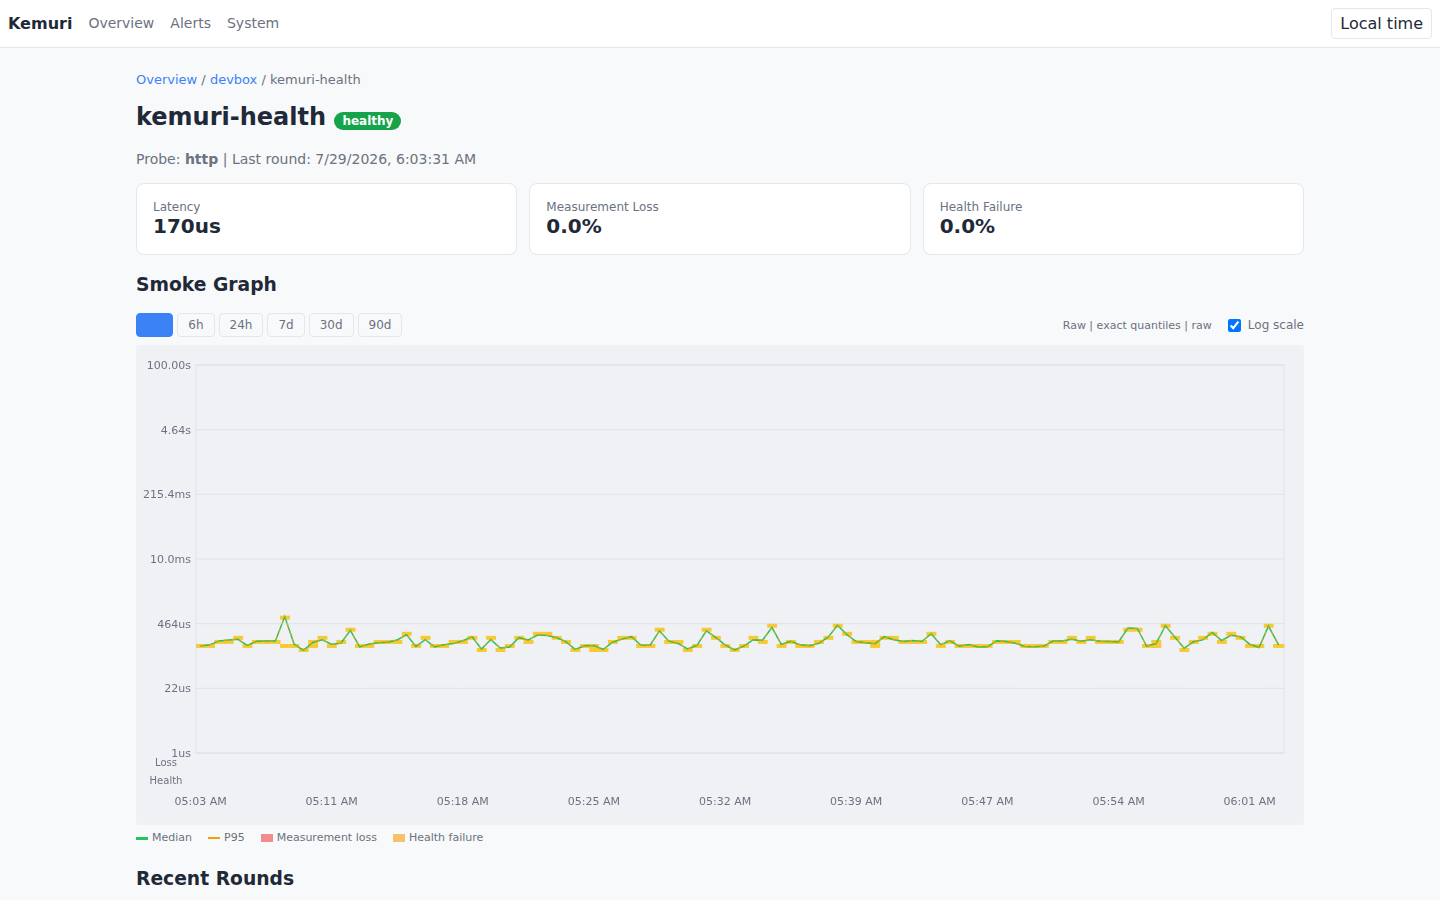
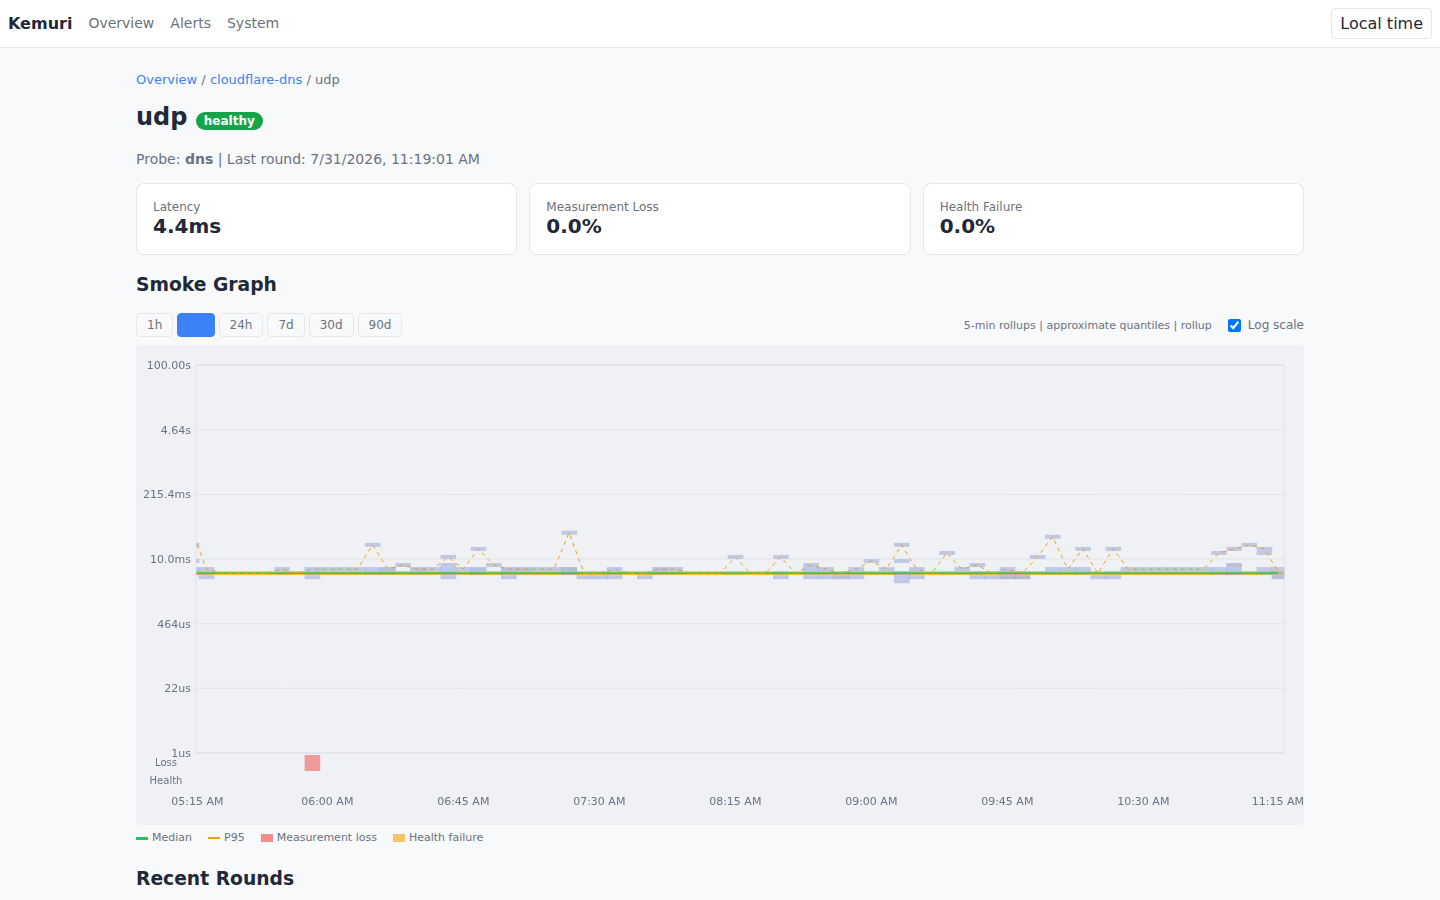
docs(site): refresh product screenshots

diff --git a/site/operations/grafana.md b/site/operations/grafana.md
@@ -27,6 +27,8 @@ scrape_configs:
 
 Import `kemuri-service-health.json`. Select the Prometheus data source.
 
+![Grafana service-health dashboard for a running Kemuri process](/screenshots/grafana-service-health.png)
+
 This dashboard shows:
 
 - Active, queued, and running checks.
@@ -58,6 +60,8 @@ connect to Kemuri.
 
 Import `kemuri-check-analysis.json`. Select the Infinity data source. Then
 select a target and a check.
+
+![Grafana check-analysis dashboard with a smoke-style latency heatmap](/screenshots/grafana-check-analysis.png)
 
 The dashboard shows:
 

diff --git a/site/index.md b/site/index.md
@@ -58,7 +58,7 @@ next: false
   </p>
   <div class="screen-grid">
     <figure>
-      <img src="/screenshots/overview.png" alt="Kemuri overview with four healthy targets" loading="lazy">
+      <img src="/screenshots/overview.png" alt="Kemuri overview with healthy and down targets" loading="lazy">
       <figcaption>The overview groups targets and shows their current state.</figcaption>
     </figure>
     <figure>

diff --git a/site/guide/web-ui.md b/site/guide/web-ui.md
@@ -16,7 +16,7 @@ The overview shows these totals:
 
 The page groups targets by their configured group path.
 
-![Kemuri overview with four healthy targets](/screenshots/overview.png)
+![Kemuri overview with healthy and down targets](/screenshots/overview.png)
 
 ## Target page
 
